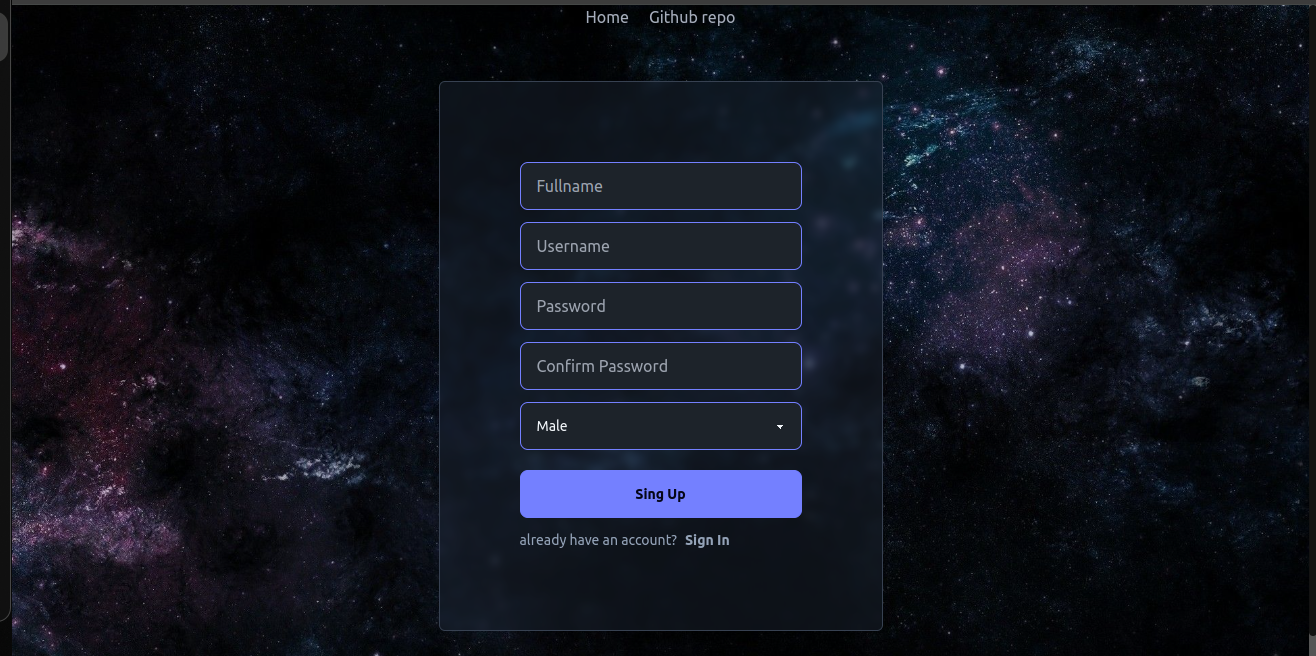
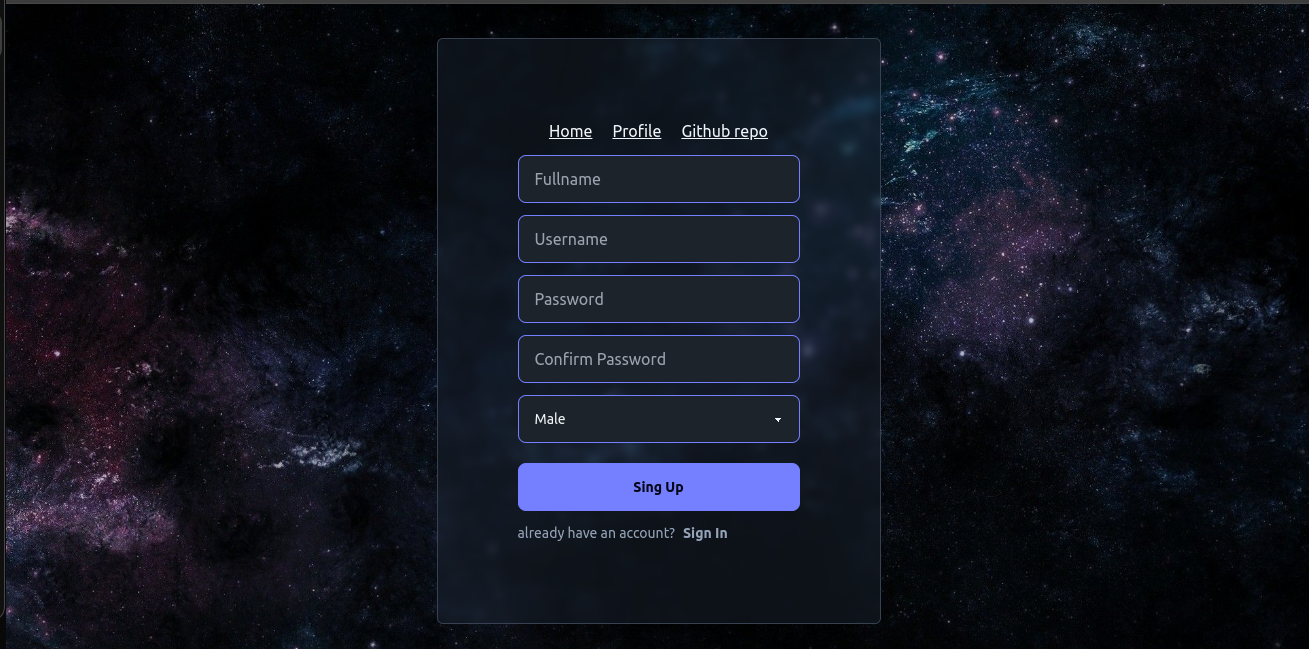
update user info

diff --git a/frontend/src/pages/UserInfo.jsx b/frontend/src/pages/UserInfo.jsx
@@ -1,0 +1,65 @@
+import { useState } from "react"
+import { useAuthContext } from "../context/AuthContext";
+import useUpdateUserInfo from "../hooks/useUpdateUserInfo";
+import Header from "../components/Header";
+import { toast } from "react-toastify";
+
+const UserInfo = () => {
+
+    const { authUser } = useAuthContext();
+    const [formData, setFormData] = useState({
+    });
+
+    const { loading, updateUserInfo } = useUpdateUserInfo();
+
+    const handleSubmit = async (e) => {
+        e.preventDefault();
+        await updateUserInfo(formData);
+        toast.success("Your information has been updated.", {
+            position: "top-center",
+            autoClose: 3000,
+            theme: "dark",
+            draggable: true
+        });
+    }
+
+    return (
+        <div className="min-h-screen  flex justify-center items-center text-slate-100 p-3">
+            <form className=" bg-gray-800 rounded-md bg-clip-padding backdrop-filter backdrop-blur-sm bg-opacity-40 border border-gray-700 p-20 flex flex-col gap-3" onSubmit={handleSubmit} >
+                <Header />
+                <div className="flex justify-center" >
+                <div className="avatar">
+                    <div className="w-16 rounded-full">
+                        <img src={authUser.profilePic} />
+                    </div>
+                </div>
+                </div>
+                <label className="form-control w-full max-w-xs">
+                    <div className="label">
+                        <span className="label-text">Fullname</span>
+                    </div>
+                    <input type="text" id="fullname" placeholder="Type here" className="input input-bordered w-full max-w-xs" onChange={(e) => setFormData({ ...formData, [e.target.id]: e.target.value })} defaultValue={authUser.fullname} />
+                </label>
+                <label className="form-control w-full max-w-xs">
+                    <div className="label">
+                        <span className="label-text">Username</span>
+                    </div>
+                    <input type="text" id="username" placeholder="Type here" className="input input-bordered w-full max-w-xs" onChange={(e) => setFormData({ ...formData, [e.target.id]: e.target.value })} defaultValue={authUser.username} />
+                </label>
+                <label className="form-control w-full max-w-xs">
+                    <div className="label">
+                        <span className="label-text">Password</span>
+                    </div>
+                    <input type="password" id="password" placeholder="********" className="input input-bordered w-full max-w-xs" onChange={(e) => setFormData({ ...formData, [e.target.id]: e.target.value })} />
+                </label>
+                <button type="submit" className='btn btn-primary btn-block mt-2' >
+                    {loading ?
+                        <span className='loading loading-spinner '></span>
+                        : "Update"}
+                </button>
+            </form>
+        </div>
+    )
+}
+
+export default UserInfo

diff --git a/backend/controllers/user.controller.js b/backend/controllers/user.controller.js
@@ -36,10 +36,10 @@ export const addFriend = async (req, res, next) => {
 
         toUser.friendRequests.push(currentUserId);
         await toUser.save();
-        
+
         const toUserSocketId = getReceiverSocketId(toUserId);
-        if(toUserSocketId) {
-            io.to(toUserSocketId).emit('friend-request' ,{ message: `You have a new friend request from ${currentUser.fullname}`, user : toUser });
+        if (toUserSocketId) {
+            io.to(toUserSocketId).emit('friend-request', { message: `You have a new friend request from ${currentUser.fullname}`, user: toUser });
         }
 
         res.status(200).json({ message: `Friend requests has sent to ${toUser.fullname}` });
@@ -68,11 +68,11 @@ export const acceptFriend = async (req, res, next) => {
         await Promise.all[currentUser.save(), toUser.save()];
 
         const fromUserSocketId = getReceiverSocketId(fromUserId);
-        if(fromUserSocketId) {
-            io.to(fromUserSocketId).emit('accept-friend' ,{ message: `${currentUser.fullname} has accepted your friend request.`, user : toUser });
+        if (fromUserSocketId) {
+            io.to(fromUserSocketId).emit('accept-friend', { message: `${currentUser.fullname} has accepted your friend request.`, user: toUser });
         }
 
-        res.status(200).json({ message: `You've accpeted friend request from ${toUser.fullname}`, user : currentUser });
+        res.status(200).json({ message: `You've accpeted friend request from ${toUser.fullname}`, user: currentUser });
     } catch (error) {
         next(error);
     }
@@ -103,6 +103,10 @@ export const updateUser = async (req, res, next) => {
             }, { new: true }
         ).select("-password");
         // const { password:pass, ...user } = updatedUser._doc
+
+
+        io.emit('update-user', updatedUser);
+
         res.status(200).json(updatedUser);
     } catch (error) {
         next(error)
@@ -125,10 +129,10 @@ export const deleteUser = async (req, res, next) => {
 
 export const getUser = async (req, res, next) => {
     try {
-        const user = await User.find({username : req.params.username}).select('-password');
+        const user = await User.find({ username: req.params.username }).select('-password');
         // { _id: { $ne: currentUserId } }
 
-        if(user.length === 0) {
+        if (user.length === 0) {
             return next(errorHandler(404, 'User not found.'));
         }
 

diff --git a/frontend/src/hooks/useUpdateUserInfo.js b/frontend/src/hooks/useUpdateUserInfo.js
@@ -1,0 +1,58 @@
+
+import { useState } from "react"
+import { useAuthContext } from "../context/AuthContext"
+import { toast } from "react-toastify"
+
+
+const useUpdateUserInfo = () => {
+    const [loading, setLoading] = useState(false)
+    const { setAuthUser } = useAuthContext();
+
+    const updateUserInfo = async ({ fullname, username, password }) => {
+        const result = validationCheck({ fullname, username, password });
+        if(!result) return;
+        setLoading(true);
+        try {
+            const res = await fetch("/api/user", {
+                method: "PUT",
+                headers: { "Content-Type": "application/json" },
+                body: JSON.stringify({ fullname, username, password }),
+            });
+
+            const data = await res.json();
+            if (data.success === false) {
+                throw new Error(data.message);
+            }
+            localStorage.setItem('chat-user', JSON.stringify(data))
+            setAuthUser(data);
+        } catch (error) {
+            toast.error(error.message, {
+                position: "top-center",
+                autoClose: 3000,
+                theme: "dark",
+                draggable: true
+            });
+        } finally {
+            setLoading(false);
+        }
+    }
+
+    return { loading, updateUserInfo }
+}
+
+export default useUpdateUserInfo
+
+function validationCheck({ fullname, username, password }) {
+
+    if( !fullname &&  !username && !password ) {
+        toast.error("No change has made", {
+            position: "top-center",
+            autoClose: 3000,
+            theme: "dark",
+            draggable: true
+        });
+        return false;
+    }
+
+    return true;
+}

diff --git a/frontend/src/pages/Home.jsx b/frontend/src/pages/Home.jsx
@@ -7,6 +7,8 @@ import { useEffect, useState } from "react";
 import { toast } from "react-toastify";
 import useListenFriendRequest, { useListenFriendAccept } from "../hooks/useListenFriendRequestAndAccept";
 import { useAuthContext } from "../context/AuthContext";
+import useListenUpdateUser from "../hooks/useListenUpdateUser";
+import Header from "../components/Header";
 
 const Home = () => {
 
@@ -38,21 +40,10 @@ const Home = () => {
     }
   }, [acceptResponse, setAuthUser]);
 
+  useListenUpdateUser();
   const { loading } = useGetUsers();
   const { sidebarUsers } = useUsers();
   const [filterUser, setFilterUser] = useState([]);
-  // const searchUser = (username) => {
-  //   console.log('username')
-  //   console.log(username)
-  //   if (!username || username === '') {
-  //     setFilterUser(sidebarUsers)
-  //     return;
-  //   } else {
-  //     setFilterUser(sidebarUsers.filter(sb => {
-  //       return sb.fullname.toLowerCase().includes(username.toLowerCase()) || sb.fullname.split(' ').join('').toLowerCase().includes(username.toLowerCase())
-  //     }))
-  //   }
-  // }
 
   const searchUser = (username) => {
     const sanitizeSearch = username.trim().toLowerCase();
@@ -73,6 +64,7 @@ const Home = () => {
   return (
     <div className="min-h-screen  flex justify-center items-center text-slate-100 p-5 sm:p-0">
       <div className=" w-full sm:w-1/2 sm:max-w-3xl bg-gray-800 rounded-md bg-clip-padding backdrop-filter backdrop-blur-sm bg-opacity-40 border border-gray-700 px-5 py-3 flex flex-col gap-5">
+      <Header />
         <div>
           <SidebarSearch searchUser={searchUser} />
         </div>

diff --git a/frontend/src/App.jsx b/frontend/src/App.jsx
@@ -9,7 +9,7 @@ import Signup from "./pages/Signup";
 import Chat from "./components/message/Chat";
 import { useAuthContext } from "./context/AuthContext";
 import NotFound from "./pages/NotFound";
-import Header from "./components/Header";
+import UserInfo from "./pages/UserInfo";
 
 const App = () => {
   const { authUser } = useAuthContext();
@@ -17,12 +17,12 @@ const App = () => {
   return (
     <div>
       <BrowserRouter>
-        <Header />
         <Routes>
           <Route path="/" element={authUser ? <Home /> : <Navigate to={'signin'} />} />
           <Route path="/signin" element={authUser ? <Navigate to={'/'} /> : <Signin />} />
           <Route path="/signup" element={authUser ? <Navigate to={'/'} /> : <Signup />} />
           <Route path="/chat/:username" element={authUser ? <Chat /> : <Navigate to={'/signin'} />} />
+          <Route path="/user-info" element={authUser ? <UserInfo /> : <Navigate to={'/signin'} />} />
           <Route path="*" element={<NotFound />} />
         </Routes>
         <ToastContainer />

diff --git a/frontend/src/pages/Signin.jsx b/frontend/src/pages/Signin.jsx
@@ -1,6 +1,7 @@
 import { useState } from "react";
 import { Link } from "react-router-dom";
 import useSignin from "../hooks/useSignin";
+import Header from "../components/Header"
 
 const Signin = () => {
   const [formData, setFormData] = useState({});
@@ -14,6 +15,7 @@ const Signin = () => {
   return (
     <div className="min-h-screen  flex justify-center items-center text-slate-100 p-3">
       <form onSubmit={handleSubmit} className=" bg-gray-800 rounded-md bg-clip-padding backdrop-filter backdrop-blur-sm bg-opacity-40 border border-gray-700 p-20 flex flex-col gap-3">
+        <Header/>
         <div>
           <input type="text" id="username" placeholder="Username" className="input input-bordered input-primary w-full max-w-xs" onChange={(e) => setFormData({...formData, [e.target.id] : e.target.value}) } />
         </div>

diff --git a/frontend/src/pages/Signup.jsx b/frontend/src/pages/Signup.jsx
@@ -1,6 +1,7 @@
 import { useState } from "react";
 import { Link } from "react-router-dom";
 import useSignup from "../hooks/useSignup";
+import Header from "../components/Header";
 
 const Signup = () => {
 
@@ -15,6 +16,7 @@ const Signup = () => {
   return (
     <div className="min-h-screen  flex justify-center items-center text-slate-100 p-3">
       <form onSubmit={handleSubmit} className=" bg-gray-800 rounded-md bg-clip-padding backdrop-filter backdrop-blur-sm bg-opacity-40 border border-gray-700 p-20 flex flex-col gap-3">
+        <Header/>
         <div>
           <input type="text" id="fullname" placeholder="Fullname" className="input input-bordered input-primary w-full max-w-xs" 
           onChange={(e) => setFormData({...formData, [e.target.id] : e.target.value}) } />

diff --git a/frontend/src/hooks/useListenUpdateUser.js b/frontend/src/hooks/useListenUpdateUser.js
@@ -1,0 +1,17 @@
+import { useEffect } from 'react';
+import { useSocketContext } from '../context/SocketContext';
+import useUsers from '../zustand/useUsers';
+
+const useListenUpdateUser = () => {
+    const { socket } = useSocketContext();
+    const { sidebarUsers, setSidebarUsers } = useUsers();
+  
+    useEffect(() => {
+      socket?.on('update-user', (updatedUser) => {
+        setSidebarUsers(sidebarUsers.map(sb => sb._id === updatedUser._id ? updatedUser : sb));
+      })
+      return () => socket?.off('delete-convo')
+    }, [socket, setSidebarUsers, sidebarUsers])
+}
+
+export default useListenUpdateUser

diff --git a/frontend/src/components/Header.jsx b/frontend/src/components/Header.jsx
@@ -3,8 +3,9 @@ import { Link } from "react-router-dom"
 const Header = () => {
   return (
     <div className="flex justify-center gap-5">
-        <Link className="hover:underline" to='/' >Home</Link>
-        <a href="https://github.com/iamwaiyanminhtet/messaging-app-mern" target="_blank" className="hover:underline" >Github repo</a>
+        <Link className="underline" to='/' >Home</Link>
+        <Link className="underline" to='/user-info' >Profile</Link>
+        <a href="https://github.com/iamwaiyanminhtet/messaging-app-mern" target="_blank" className="underline" >Github repo</a>
     </div>
   )
 }

diff --git a/frontend/src/context/SocketContext.jsx b/frontend/src/context/SocketContext.jsx
@@ -17,7 +17,7 @@ export const SocketContextProvider = ({children}) => {
 
     useEffect(() => {
         if(authUser) {
-            const socket = io('http://localhost:3000', {
+            const socket = io('https://messaging-app-wymh.onrender.com', {
                 query : {
                     userId : authUser._id
                 }
